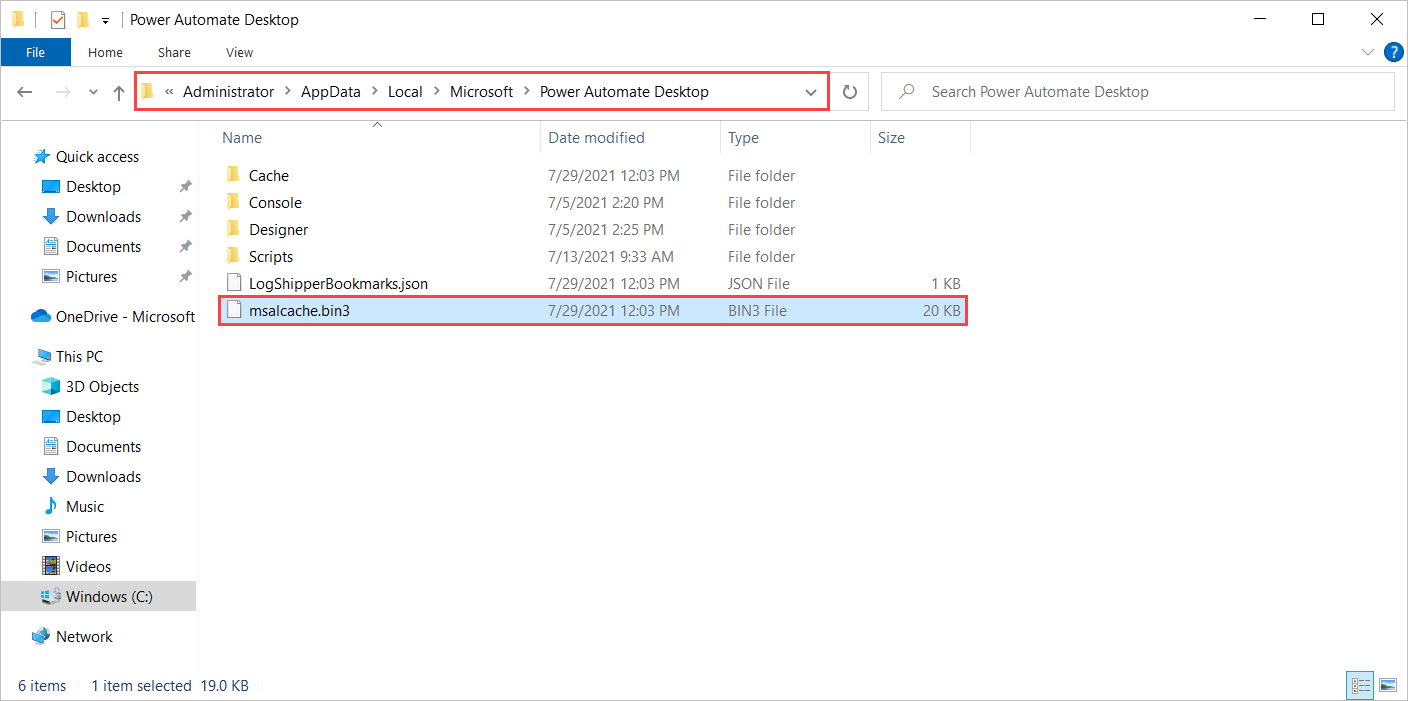
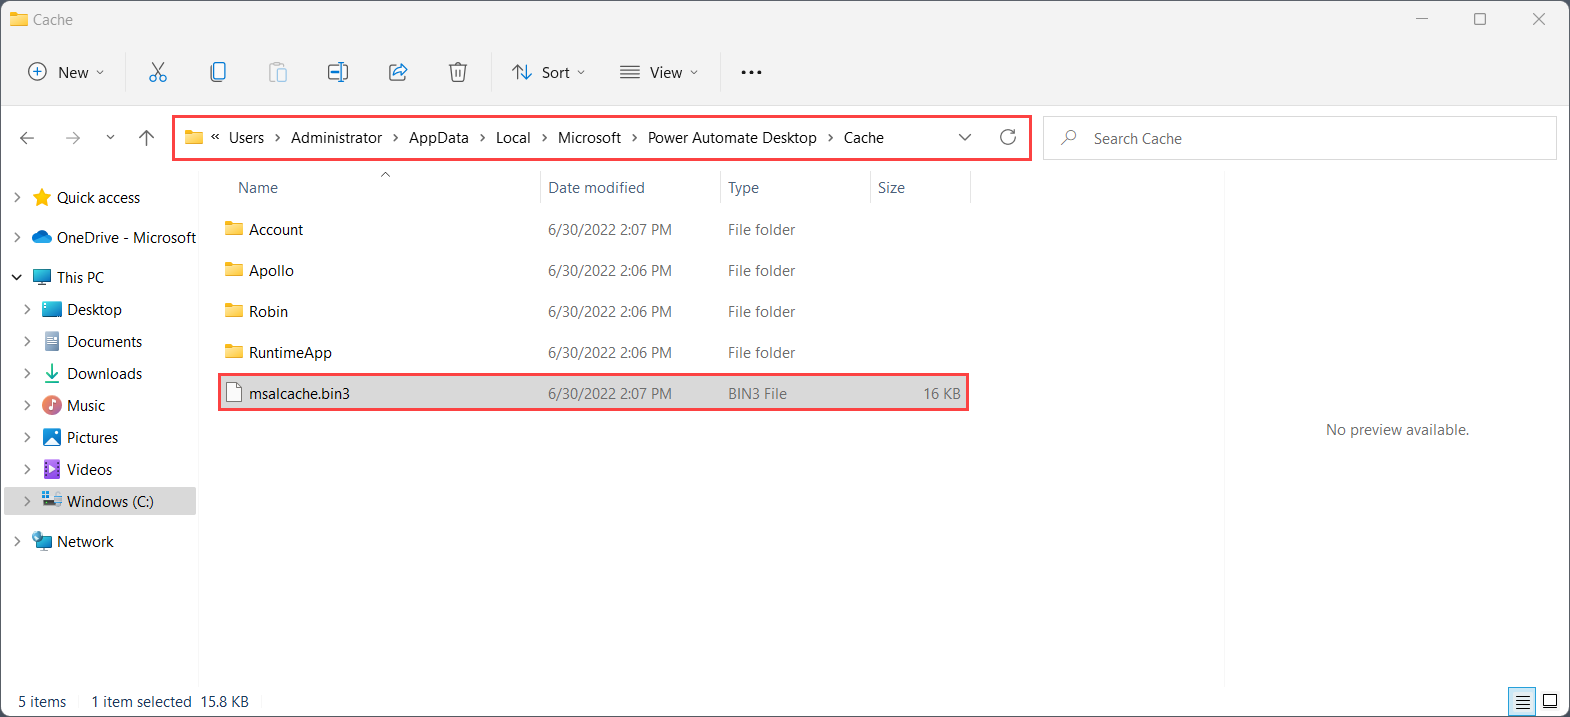
Updated token file path

diff --git a/articles/desktop-flows/troubleshoot.md b/articles/desktop-flows/troubleshoot.md
@@ -37,7 +37,7 @@ To open the troubleshoot tool:
 
 Power Automate uses a file named **msalcache.bin3** to acquire tokens and authenticate users.
 
-If you encounter errors while signing in or signing out, try to delete this file to erase all the stored tokens. To delete the file, navigate to **C:\Users\Username\AppData\Local\Microsoft\Power Automate**. 
+If you encounter errors while signing in or signing out, try to delete this file to erase all the stored tokens. To delete the file, navigate to **C:\Users\Username\AppData\Local\Microsoft\Power Automate\Cache**. 
 
 > [!NOTE]
 > If the **AppData** folder isn't visible in your user folder, try to [display hidden files](https://support.microsoft.com/windows/show-hidden-files-0320fe58-0117-fd59-6851-9b7f9840fdb2).
